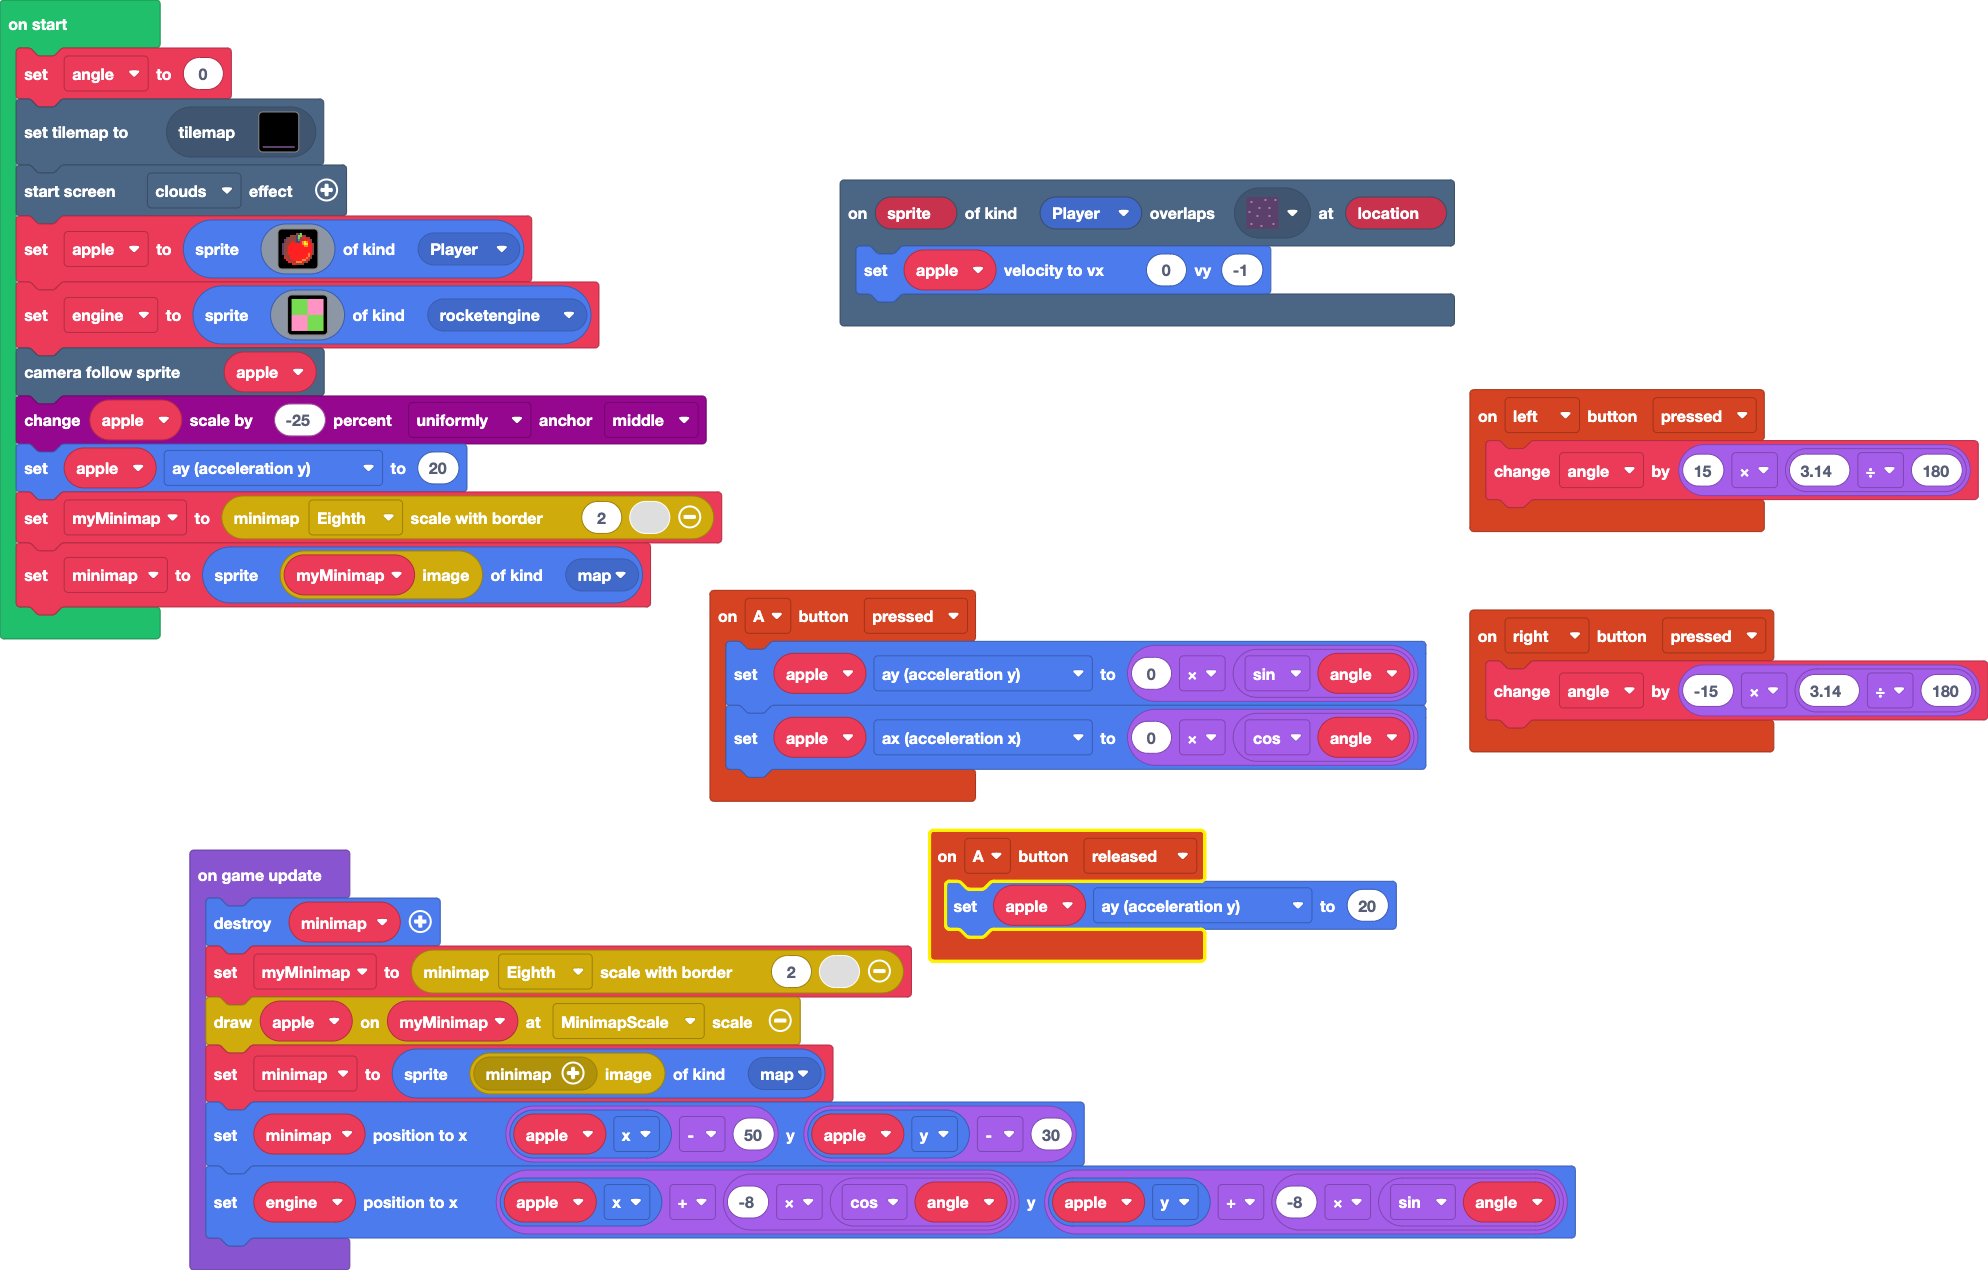
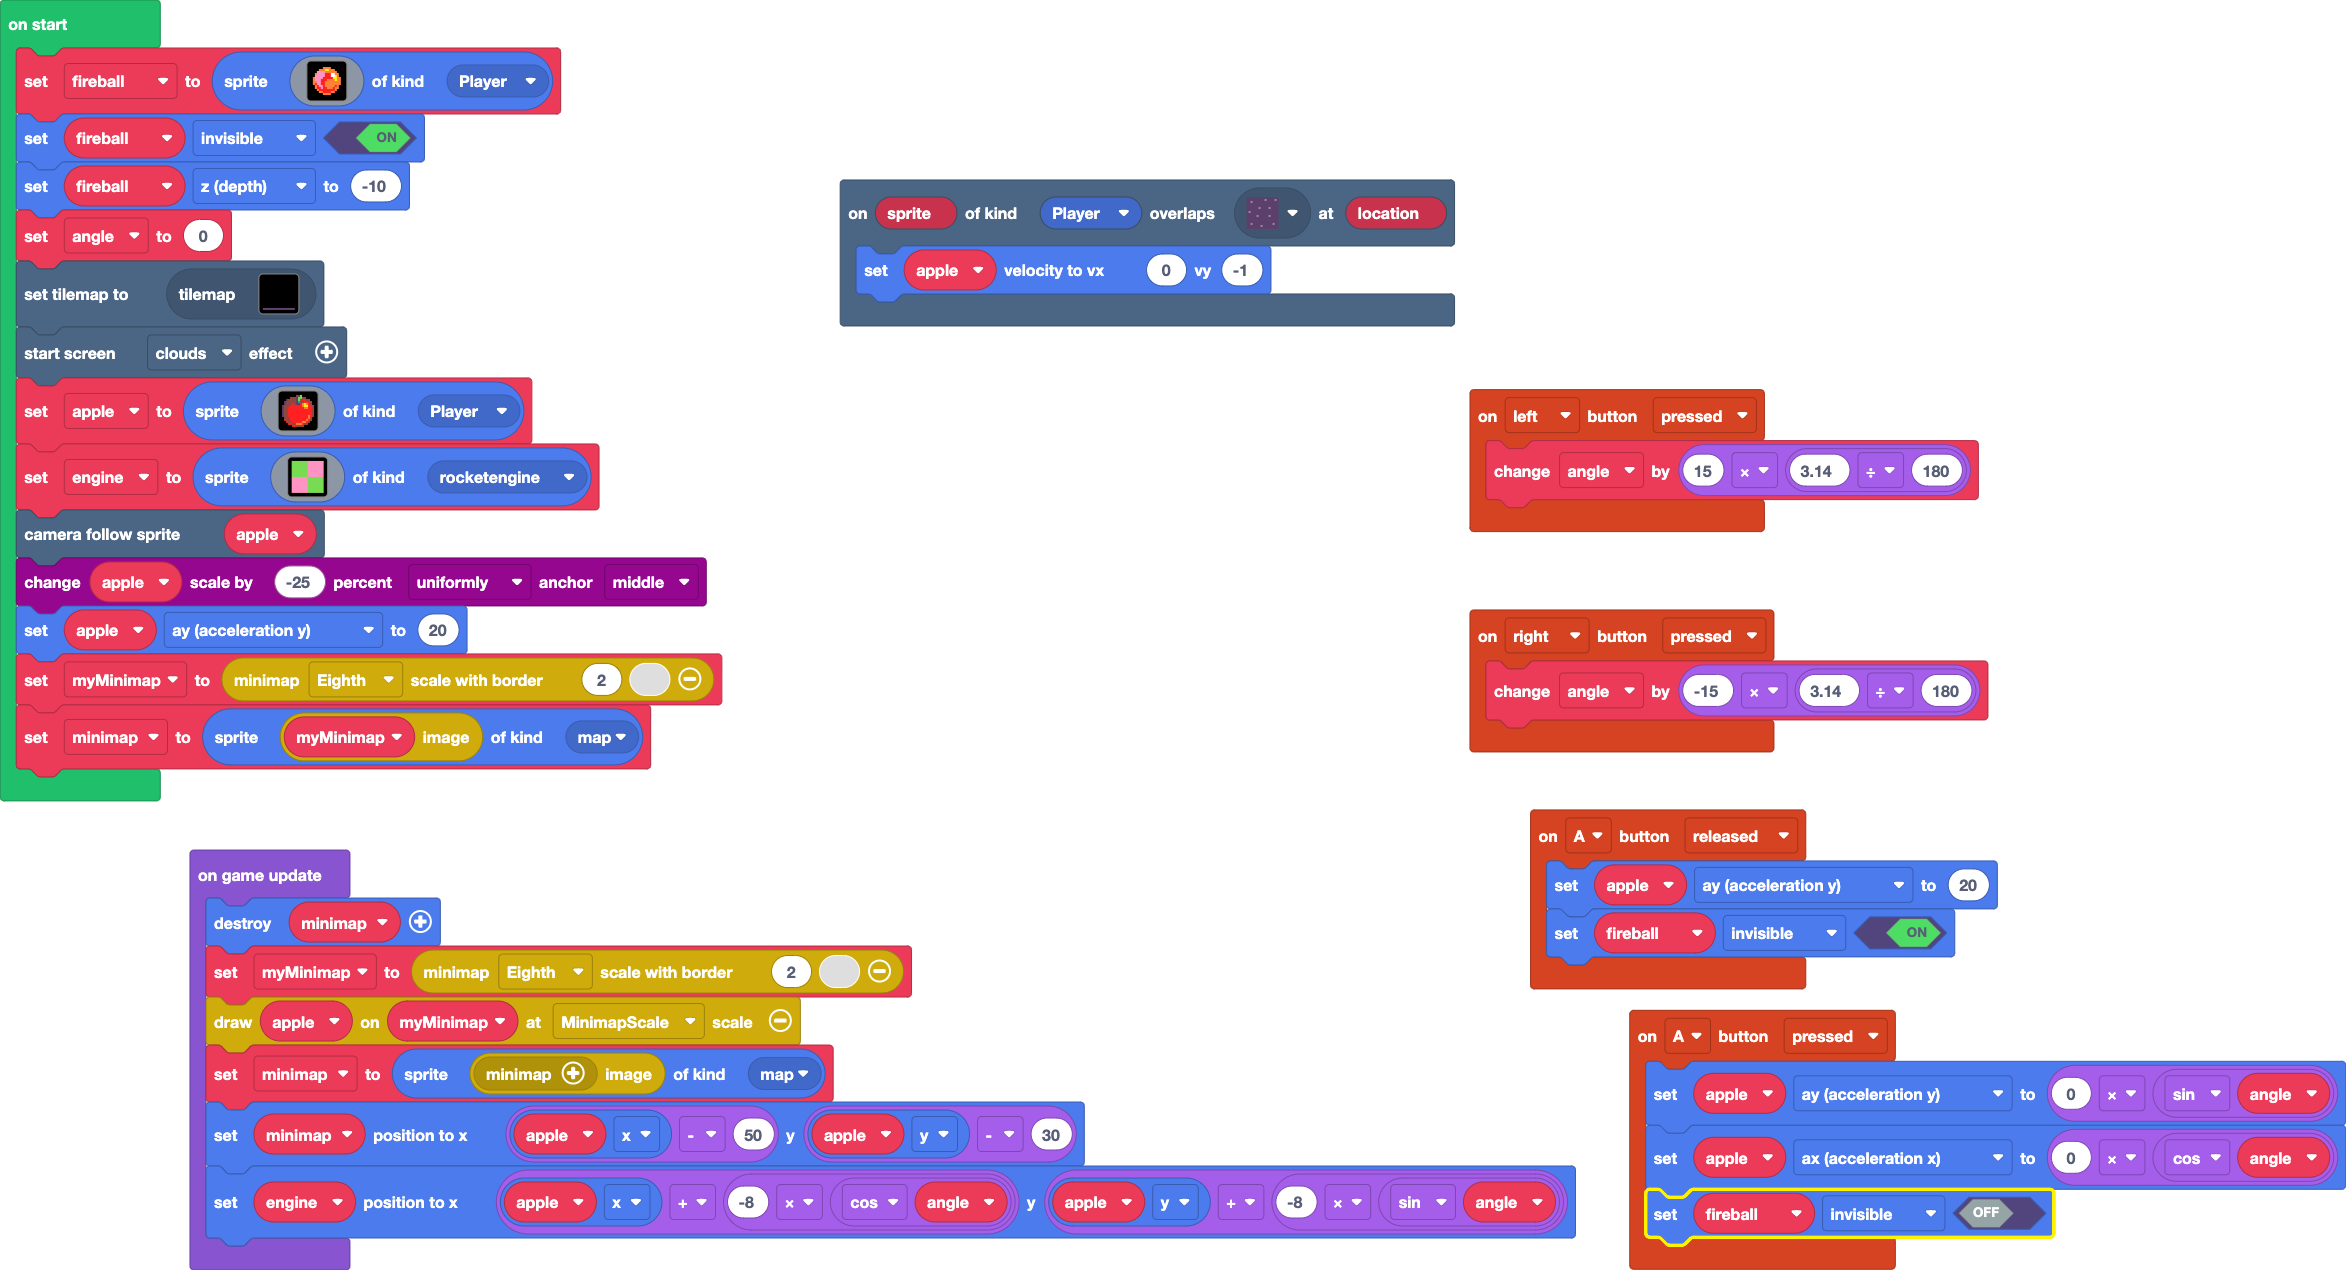
fireball finished

diff --git a/main.ts b/main.ts
@@ -6,6 +6,7 @@ namespace SpriteKind {
 controller.A.onEvent(ControllerButtonEvent.Pressed, function () {
     apple.ay = 0 * Math.sin(angle)
     apple.ax = 0 * Math.cos(angle)
+    fireball.setFlag(SpriteFlag.Invisible, false)
 })
 controller.left.onEvent(ControllerButtonEvent.Pressed, function () {
     angle += 15 * (3.14 / 180)
@@ -18,9 +19,31 @@ controller.right.onEvent(ControllerButtonEvent.Pressed, function () {
 })
 controller.A.onEvent(ControllerButtonEvent.Released, function () {
     apple.ay = 20
+    fireball.setFlag(SpriteFlag.Invisible, true)
 })
 let apple: Sprite = null
 let angle = 0
+let fireball: Sprite = null
+fireball = sprites.create(img`
+    . . . . . . . . . . . . . . . . 
+    . . . . . . 4 4 4 4 . . . . . . 
+    . . . . 4 4 4 5 5 4 4 4 . . . . 
+    . . . 3 3 3 3 4 4 4 4 4 4 . . . 
+    . . 4 3 3 3 3 2 2 2 1 1 4 4 . . 
+    . . 3 3 3 3 3 2 2 2 1 1 5 4 . . 
+    . 4 3 3 3 3 2 2 2 2 2 5 5 4 4 . 
+    . 4 3 3 3 2 2 2 4 4 4 4 5 4 4 . 
+    . 4 4 3 3 2 2 4 4 4 4 4 4 4 4 . 
+    . 4 2 3 3 2 2 4 4 4 4 4 4 4 4 . 
+    . . 4 2 3 3 2 4 4 4 4 4 2 4 . . 
+    . . 4 2 2 3 2 2 4 4 4 2 4 4 . . 
+    . . . 4 2 2 2 2 2 2 2 2 4 . . . 
+    . . . . 4 4 2 2 2 2 4 4 . . . . 
+    . . . . . . 4 4 4 4 . . . . . . 
+    . . . . . . . . . . . . . . . . 
+    `, SpriteKind.Player)
+fireball.setFlag(SpriteFlag.Invisible, true)
+fireball.z = -10
 angle = 0
 tiles.setCurrentTilemap(tilemap`level1`)
 effects.clouds.startScreenEffect()
